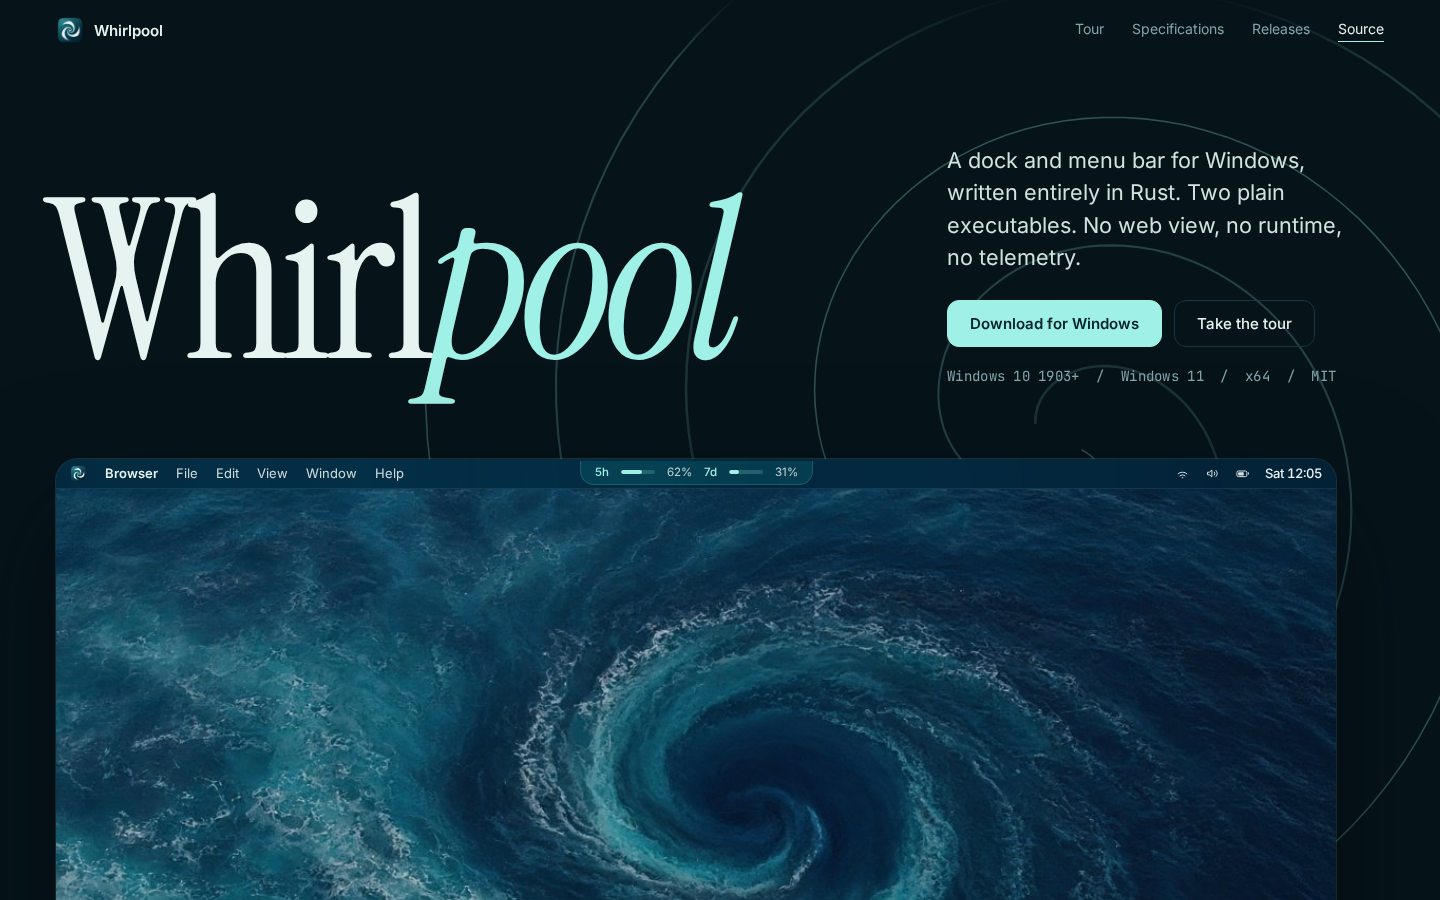
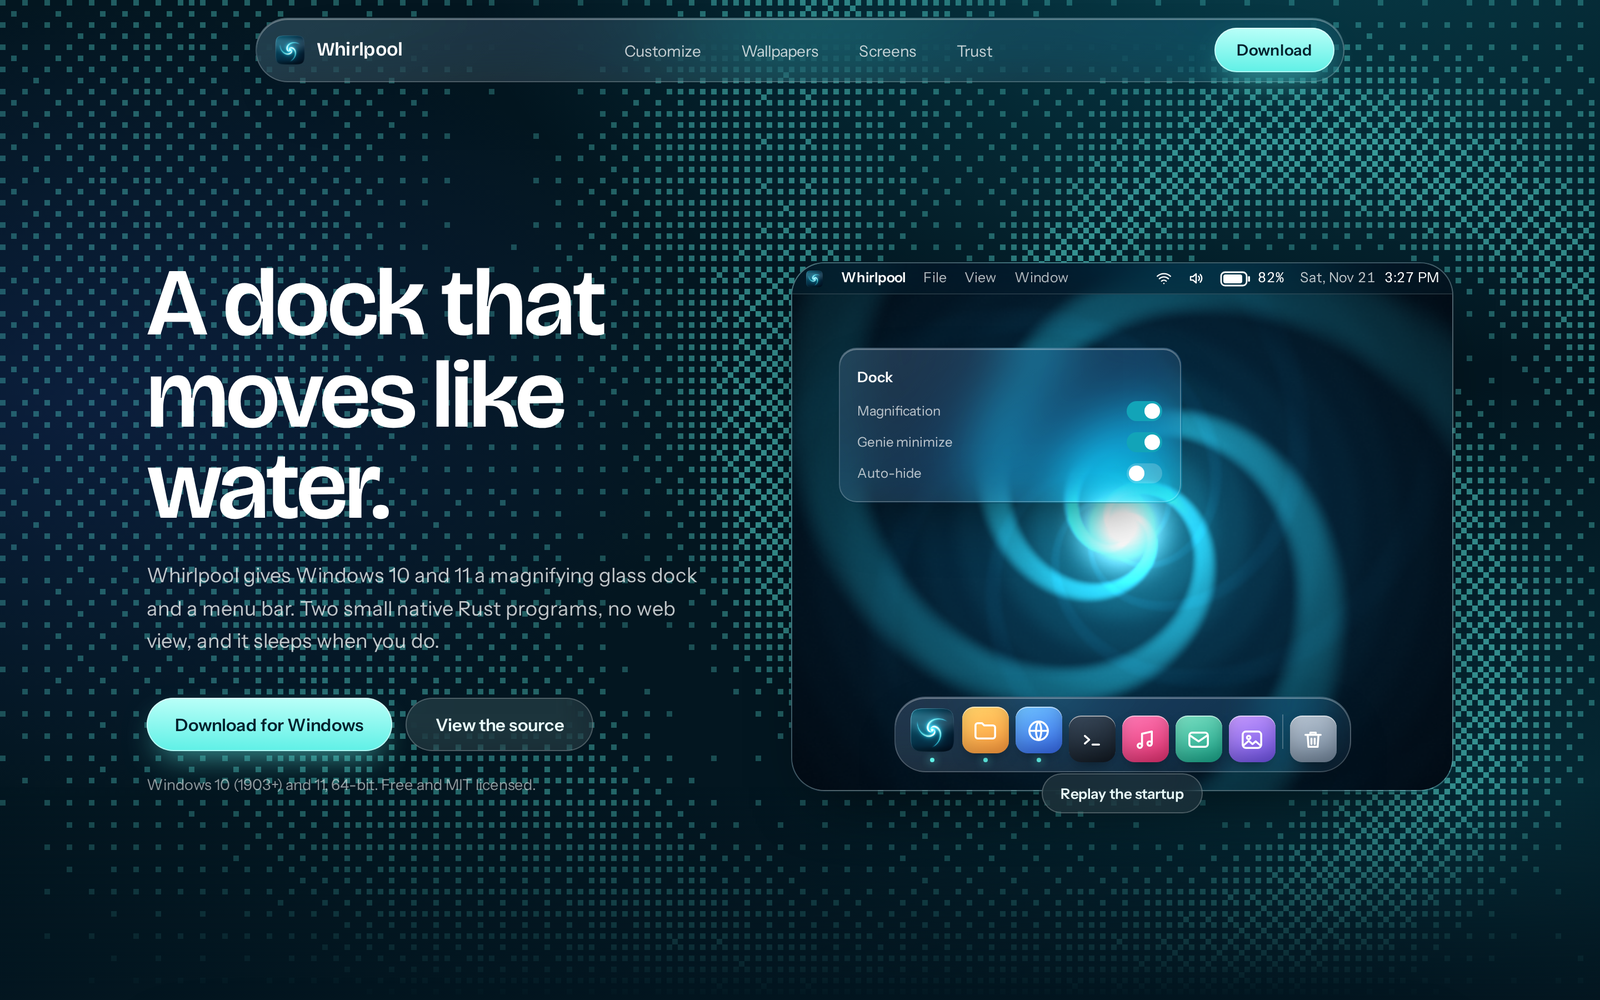
Docs: README, optimized previews, Pages workflow for the new site; dither mask for legible hero

diff --git a/site/src/App.tsx b/site/src/App.tsx
@@ -42,7 +42,7 @@ function Hero() {
   const [replay, setReplay] = useState(0)
   return (
     <section id="top" className="relative isolate overflow-hidden">
-      <div className="absolute inset-0 -z-10 opacity-90"><DitherField cell={5} center={[0.74, 0.5]} /></div>
+      <div className="absolute inset-0 -z-10 opacity-90" style={{ maskImage: 'linear-gradient(90deg, rgba(0,0,0,.14) 0%, rgba(0,0,0,.2) 38%, #000 68%)', WebkitMaskImage: 'linear-gradient(90deg, rgba(0,0,0,.14) 0%, rgba(0,0,0,.2) 38%, #000 68%)' }}><DitherField cell={5} center={[0.74, 0.5]} /></div>
       <div className="absolute inset-x-0 bottom-0 -z-10 h-48 bg-gradient-to-t from-[#031620] to-transparent" />
       <div className="mx-auto grid min-h-[100svh] max-w-[1240px] items-center gap-12 px-5 pt-28 pb-16 sm:px-8 lg:grid-cols-[1fr_1.12fr]">
         <div>

diff --git a/README.md b/README.md
@@ -1,59 +1,101 @@
-<p align="center"><img src="assets/brand/whirlpool-1024.png" width="112" alt="Whirlpool"></p>
+<p align="center">
+  <img src="assets/brand/whirlpool-1024.png" width="132" alt="Whirlpool logo: a luminous three-arm vortex on a glass tile">
+</p>
 
 <h1 align="center">Whirlpool</h1>
 
-<p align="center">A dock and menu bar for Windows 10 and 11, written entirely in Rust.<br>
-Two plain executables. No web view, no runtime, no telemetry.</p>
+<p align="center">
+  <b>A dock that moves like water.</b><br>
+  A magnifying dock and a customizable menu bar for Windows 10 and 11.<br>
+  Two small native Rust programs. No web view. No runtime. It sleeps when you do.
+</p>
 
-<p align="center"><a href="https://github.com/prashantchataut/whirlpool/releases/latest"><b>Download</b></a> · <a href="https://prashantchataut.github.io/whirlpool/">Website</a> · <a href="docs/ARCHITECTURE.md">Architecture</a> · <a href="CHANGELOG.md">Changelog</a></p>
+<p align="center">
+  <a href="https://github.com/prashantchataut/whirlpool/releases/latest"><b>Download</b></a> ·
+  <a href="https://prashantchataut.github.io/whirlpool/">Website</a> ·
+  <a href="docs/TRUST.md">Trust &amp; verification</a> ·
+  <a href="CHANGELOG.md">Changelog</a>
+</p>
 
-![The Whirlpool dock with a magnified icon and window previews](site/assets/screens/dock.png)
+<p align="center">
+  <img src="docs/previews/site-hero.png" alt="Whirlpool website hero: a dithered vortex behind a desktop with the Whirlpool dock and menu bar">
+</p>
 
-> **About the pictures.** The screens in this README and on the website are design renders drawn from the app's own palette, labels and layout (see [`site/renders`](site/renders)). They are not captures of a running Windows session. The dock itself needs Windows to run.
+> **About the images.** Everything under `docs/previews/` is a **design render** drawn from the app's own palette, labels and
+> layout (the website builds them from the same components as its live demo). They are not captures of a running Windows
+> session. Please run the release and compare.
 
-## What it is
+## What you get
 
-Whirlpool is a fork of [Muelle Native](https://github.com/prashantchataut/muelle-native), itself a fork of [crafter-station/Muelle](https://github.com/crafter-station/Muelle) (MIT). The dock was already native Direct2D/DirectComposition Rust. Whirlpool keeps every feature and adds an ocean identity, a rebuilt settings window and clearer docs.
-
-| Program | What it is |
+| | |
 | --- | --- |
-| `whirlpool.exe` | The dock and optional top menu bar (Win32, DirectComposition, Direct2D, DirectWrite) |
-| `whirlpool-settings.exe` | Native settings window (egui). Edits the same `config.json` and tells the dock to reload |
+| **Glass dock** | Spring magnification, pins, groups, recents, live window previews, Genie minimize, drag and drop, auto-hide on any edge. |
+| **Menu bar** | Clock, network, volume, battery, input language, tray, now playing and an AI plan-usage island. Tint strength, date and 12/24-hour clock are yours to set. |
+| **Wallpapers** | 24 procedural wallpapers (vortex, mesh, horizon) drawn at the exact resolution of your screen, plus Shuffle. Nothing is downloaded. |
+| **Motion** | Animation style (Relaxed, Smooth, Snappy), a startup animation (Off, Glide, Rise, Swift), a dock that sinks away when you quit, and a charging animation you can turn off on its own. |
+| **Your taskbar, hidden for real** | The Windows taskbar is auto-hidden, made transparent and click-through, given an empty window region, and re-checked every few seconds. `whirlpool.exe --restore` always brings it back. |
+| **Settings that fit** | A native window that sizes itself to your monitor and scale, in English, Español and Français, light and dark. |
 
-## What changed from Muelle Native
+<p align="center">
+  <img src="docs/previews/site-customize.png" alt="The customization playground: sliders and segmented controls next to a live dock and the config.json it writes" width="860">
+</p>
 
-- **New name and theme.** Abyss (dark) and Foam (light) palettes, a tide-teal accent, a vortex mark and a regenerated icon. The dock glass, labels, menus, group glow and active-app indicator are tinted to match.
-- **Rebuilt settings window.** Inter typeface embedded, semibold weights, a sidebar with a leading tide mark, themed controls (sliders, combo boxes, buttons) instead of egui defaults, and cards with more breathing room.
-- **Nothing lost on upgrade.** On first run Whirlpool moves your `%APPDATA%\Muelle` (or older `WinDock`) folder to `%APPDATA%\Whirlpool`, keeping pins, groups and preferences.
-- **Docs.** [Architecture](docs/ARCHITECTURE.md), [contributing](CONTRIBUTING.md), a regenerable [icon script](scripts/make_icon.py), and a website that deploys from [`site/`](site).
-- **Pipelines.** Release builds both programs on Windows, publishes `.exe`, `.zip`, `install.ps1`, `SHA256SUMS.txt` and the changelog section as release notes. The website deploys to GitHub Pages.
+### Wallpapers
 
-## Features
+<p align="center">
+  <img src="docs/previews/wallpapers.png" alt="Contact sheet of all 24 Whirlpool wallpapers" width="860">
+</p>
 
-- Glass dock with cursor-based magnification, pinning, grouping, reordering and recent apps.
-- Live window previews, Genie minimize effect (three speeds), minimized-window thumbnails.
-- Menu bar with clock, network, volume, battery, input language, tray icons, now-playing and an AI plan-usage island.
-- Drag and drop onto apps, Downloads and the Recycle Bin; shortcuts folder menu; optional auto-hide.
-- Settings in English, Spanish and French, light and dark, with previews drawn over your wallpaper.
-- A watchdog restores the Windows taskbar if the dock exits unexpectedly.
+### Screens
 
-| Menu bar, island and quick settings | Settings, dark (Abyss) | Settings, light (Foam) |
-| --- | --- | --- |
-| ![](site/assets/screens/menubar.png) | ![](site/assets/screens/settings-dark.png) | ![](site/assets/screens/settings-light.png) |
+<p align="center">
+  <img src="docs/previews/site-screens.png" alt="Design renders: dock over a desktop, the Personalize settings page, charging and startup states" width="860">
+</p>
 
 ## Install
 
 Windows 10 (1903+) or Windows 11, 64-bit.
 
-**One line (no admin, per-user):**
+**One line, per user, no admin.** The script verifies the SHA-256 of every file before it installs anything:
 
 ```powershell
 irm https://raw.githubusercontent.com/prashantchataut/whirlpool/main/scripts/install.ps1 | iex
 ```
 
-**Or manually:** download `whirlpool.exe` and `whirlpool-settings.exe` from [Releases](https://github.com/prashantchataut/whirlpool/releases/latest), keep them in the same folder and run `whirlpool.exe`. The binaries are unsigned, so SmartScreen may ask you to choose **More info, then Run anyway**. Checksums are in `SHA256SUMS.txt`.
+**Or manually:** download `whirlpool.exe` and `whirlpool-settings.exe` from [Releases](https://github.com/prashantchataut/whirlpool/releases/latest),
+keep them in one folder and run `whirlpool.exe`.
 
-If the dock ever misbehaves, `whirlpool.exe --restore` brings the Windows taskbar back.
+### Windows warns me. Is it safe?
+
+A brand-new open-source app has no signature and no download reputation yet, so SmartScreen says *unknown publisher*.
+That means unknown, not malicious. Here is how to check, and what we do about it ([full notes](docs/TRUST.md)):
+
+```powershell
+Get-FileHash .\whirlpool.exe -Algorithm SHA256                          # compare with SHA256SUMS.txt
+gh attestation verify .\whirlpool.exe --repo prashantchataut/whirlpool  # proves which workflow and commit built it
+```
+
+- Releases are built by GitHub Actions from a tagged commit, with a signed build-provenance attestation and `SHA256SUMS.txt`.
+- Both executables carry full version information and ask for **no administrator rights**.
+- No telemetry. If the dock exits, a watchdog gives you the taskbar back.
+- Code signing is wired into the release workflow and turns on when a certificate is added.
+
+## Customize
+
+Everything is in the Settings window (`whirlpool-settings.exe`, or *Whirlpool Settings* in the Start menu), which writes
+`%APPDATA%\Whirlpool\config.json` and tells the dock to reload. New in 1.0:
+
+| Key | Values |
+| --- | --- |
+| `animationStyle` | `relaxed`, `smooth`, `snappy` |
+| `startupAnimation` | `off`, `glide`, `rise`, `swift` |
+| `chargingAnimation` | `true` / `false` |
+| `menuBarOpacity` | `10` to `100` |
+| `menuBarDate` | `true` / `false` |
+| `menuBar24h` | `null` (Windows), `true`, `false` |
+| `wallpaper` | id of the last applied wallpaper, e.g. `"abyss"` |
+
+Older config files keep working; missing keys take their defaults.
 
 ## Build from source
 
@@ -62,29 +104,35 @@ Requires Rust (MSVC toolchain) and the Visual Studio C++ build tools.
 ```powershell
 cargo build --release -p whirlpool -p whirlpool-settings
 # target\release\whirlpool.exe and target\release\whirlpool-settings.exe
-
 cargo fmt --all -- --check
 cargo test --workspace
+python scripts/make_icon.py      # regenerates the logo (needs numpy and pillow)
 ```
-
-Cross-compiling from Linux works for checking and for a GNU-target build: `rustup target add x86_64-pc-windows-gnu`, install `gcc-mingw-w64-x86-64`, then `cargo build --release --target x86_64-pc-windows-gnu -p whirlpool -p whirlpool-settings`. Release builds for the MSVC target come from CI.
 
 ## Layout
 
 | Path | Purpose |
 | --- | --- |
-| `apps/dock` | Native Windows dock and menu bar |
-| `apps/settings` | Native settings window (egui) |
-| `crates/whirlpool-core` | Platform-independent layout and animation logic |
+| `apps/dock` | The dock and menu bar (Win32, DirectComposition, Direct2D) |
+| `apps/settings` | The settings window (egui) |
+| `crates/whirlpool-core` | Platform-independent layout, springs, genie and the wallpaper engine, tested anywhere |
 | `crates/whirlpool-shell` | Windows shell integration |
-| `crates/whirlpool-config` | Shared settings and persistence |
-| `site` | The website and the HTML sources of the renders |
-| `scripts` | Installer, icon generator, measurement helpers |
+| `crates/whirlpool-config` | Settings schema and persistence |
+| `site/` | The website (Vite, React, Tailwind), deployed to GitHub Pages |
+| `.agents/skills/` | The design skills this project works by (see below) |
 
 ## Privacy
 
-No telemetry. Optional network use: the settings window asks GitHub for the latest release when you open it (turn off with *Check for updates automatically*), and the dock's AI-usage island asks the provider you are already signed in to for plan limits (turn off in Menu bar settings).
+No telemetry. Optional network use: the settings window asks GitHub for the latest release when it opens
+(turn off with *Check for updates automatically*), and the AI-usage island asks the provider you are already signed in to
+for plan limits (turn off in Menu bar settings).
+
+## Contributing
+
+Read [`AGENTS.md`](AGENTS.md) and [`continuity.md`](continuity.md) first. UI and UX come first here: design work follows the
+skills vendored in [`.agents/skills`](.agents/skills) (frontend-design, design-taste-frontend, ui-ux-pro-max,
+web-design-guidelines, accessibility, impeccable, prototype), and `continuity.md` tracks what is verified and what is next.
 
 ## License
 
-MIT. Original work © Muelle contributors; changes in this fork are released under the same license. The Inter typeface in the settings window is under the SIL Open Font License ([`apps/settings/assets/fonts/Inter-OFL.txt`](apps/settings/assets/fonts/Inter-OFL.txt)).
+MIT. See [`LICENSE`](LICENSE).
